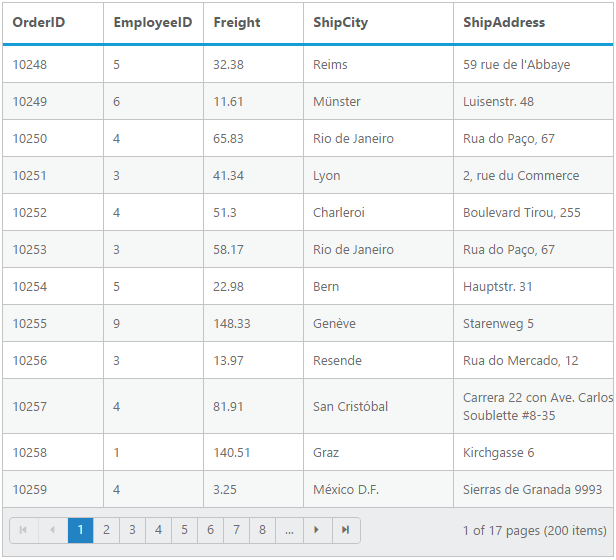
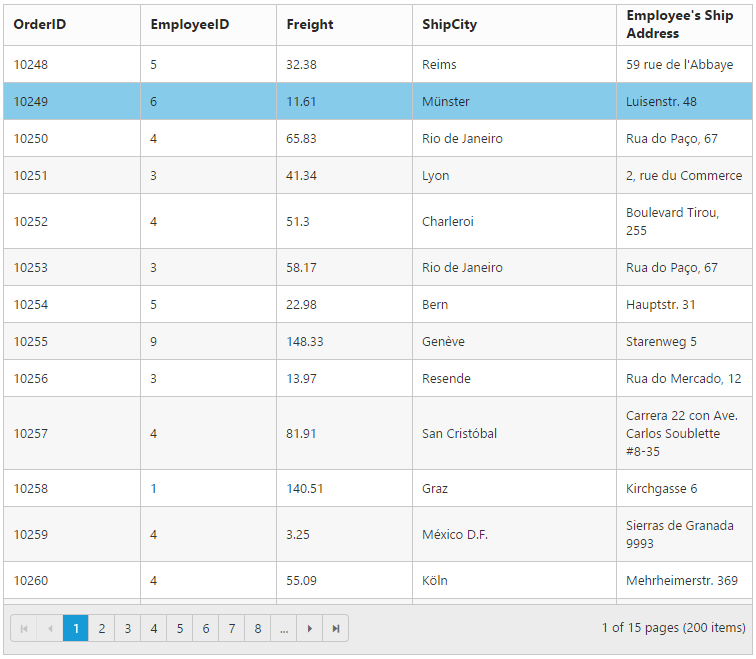
textWrapSettings api details has been committed.

diff --git a/js-toc.html b/js-toc.html
@@ -3841,6 +3841,14 @@
                                     </li>
                                 </ul>
                             </li>
+                            <li id="toc-members:textwrapsettings">
+                                <a href="/js/api/ejgrid#members:textwrapsettings">textWrapSettings</a>
+                            <ul>
+                                <li id="toc-members:textwrapsettings-wrapmode">
+                                <a href="/js/api/ejgrid#members:textwrapsettings-wrapmode">wrapMode</a>
+                                </li>
+                            </ul>
+                            </li>
                             <li id="toc-members:columnlayout">
                                 <a href="/js/api/ejgrid#members:columnlayout">columnLayout</a>
                             </li>

diff --git a/js/Grid/Cell.md b/js/Grid/Cell.md
@@ -8,9 +8,27 @@ documentation: ug
 --- 
 # Cell
 
-## Auto wrap column
+## Auto wrap 
 
-[`allowTextWrap`](http://help.syncfusion.com/js/api/ejgrid#members:allowtextwrap "allowTextWrap") property enables the Grid to wrap cell content to next line when the content exceeds the boundary of the cell width. 
+Auto wrap enables the Grid to wrap cell content or header content to next line when the content exceeds the boundary of the cell width. To enable auto wrap, set [`allowTextWrap`](http://help.syncfusion.com/js/api/ejgrid#members:allowtextwrap "allowTextWrap") property as `true`. 
+
+We can specify the mode of auto wrap using [`wrapMode`](http://help.syncfusion.com/js/api/ejgrid#members:textwrapsettings-wrapmode "wrapMode") property of the [`textWrapSettings`](http://help.syncfusion.com/js/api/ejgrid#members:textWrapSettings "textWrapSettings"). 
+
+Three types of wrapMode are available and they are,
+  
+ 1. Both
+ 2. Header
+ 3. Content 
+ 
+N> 1. By default the [`wrapMode`](http://help.syncfusion.com/js/api/ejgrid#members:textwrapsettings-wrapmode "wrapMode") will be set as `both`. 
+
+N> 2. While using [`textWrapSettings`](http://help.syncfusion.com/js/api/ejgrid#members:textWrapSettings "textWrapSettings") then it is must to set [`allowTextWrap`](http://help.syncfusion.com/js/api/ejgrid#members:allowtextwrap "allowTextWrap") as `true`.
+
+N> 3. For [`wrapMode`](http://help.syncfusion.com/js/api/ejgrid#members:textwrapsettings-wrapmode "wrapMode") property you can assign either `string` value (`both`) or `enum` value (`ej.Grid.WrapMode.Both`).
+ 
+## Both
+
+When [`wrapMode`](http://help.syncfusion.com/js/api/ejgrid#members:textwrapsettings-wrapmode "wrapMode") of [`textWrapSettings`](http://help.syncfusion.com/js/api/ejgrid#members:textWrapSettings "textWrapSettings") property set as `both` then the auto wrap will be enable for both grid content and header. 
 
 The following code example describes the above behavior.
 
@@ -19,27 +37,99 @@ The following code example describes the above behavior.
 {% endhighlight %}
 
 {% highlight js %}
-$(function () {
-	$("#Grid").ejGrid({
+
+    $(function () {
+		$("#Grid").ejGrid({
 		//The datasource "window.gridData" is referred from 'http://js.syncfusion.com/demos/web/scripts/jsondata.min.js'
 		dataSource : window.gridData,
 		allowPaging : true,
 		allowTextWrap : true,
+		textWrapSettings: {wrapMode: "both"},
 		columns : [
 			{ field: "OrderID", width: 100 },
 			{ field: "EmployeeID", width: 100 },
 			{ field: "Freight", width: 100 },
 			{ field: "ShipCity", width: 150 },
-			{ field: "ShipAddress", width: 200 }
+			{ field: "ShipAddress",headerText:"Ship Address", width: 200 }
 		]
 	});
-});
+	});
+
 {% endhighlight %}
 
 The following output is displayed as a result of the above code example.
 
 ![](Cell_images/cell_img1.png)
 
+## Header
+
+When [`wrapMode`](http://help.syncfusion.com/js/api/ejgrid#members:textwrapsettings-wrapmode "wrapMode") of [`textWrapSettings`](http://help.syncfusion.com/js/api/ejgrid#members:textWrapSettings "textWrapSettings") property set as `header` then the auto wrap will be enable only for grid header alone. 
+
+The following code example describes the above behavior.
+
+{% highlight html %}
+<div id="Grid"></div>
+{% endhighlight %}
+
+{% highlight js %}
+
+	$(function () {
+		$("#Grid").ejGrid({
+		//The datasource "window.gridData" is referred from 'http://js.syncfusion.com/demos/web/scripts/jsondata.min.js'
+		dataSource : window.gridData,
+		allowPaging : true,
+		allowTextWrap : true,
+		textWrapSettings: {wrapMode: "header"},
+		columns : [
+			{ field: "OrderID", width: 100 },
+			{ field: "EmployeeID", width: 100 },
+			{ field: "Freight", width: 100 },
+			{ field: "ShipCity", width: 150 },
+			{ field: "ShipAddress",headerText:"Ship Address", width: 200 }
+		]
+	});
+	});
+	
+{% endhighlight %}
+
+The following output is displayed as a result of the above code example.
+
+![](Cell_images/cell_img1_1.png)
+
+## Content
+
+When [`wrapMode`](http://help.syncfusion.com/js/api/ejgrid#members:textwrapsettings-wrapmode "wrapMode") of [`textWrapSettings`](http://help.syncfusion.com/js/api/ejgrid#members:textWrapSettings "textWrapSettings") property set as `content` then the auto wrap will be enable only for grid content alone. 
+
+The following code example describes the above behavior.
+
+{% highlight html %}
+<div id="Grid"></div>
+{% endhighlight %}
+
+{% highlight js %}
+
+	$(function () {
+		$("#Grid").ejGrid({
+		//The datasource "window.gridData" is referred from 'http://js.syncfusion.com/demos/web/scripts/jsondata.min.js'
+		dataSource : window.gridData,
+		allowPaging : true,
+		allowTextWrap : true,
+		textWrapSettings: {wrapMode: "content"},
+		columns : [
+			{ field: "OrderID", width: 100 },
+			{ field: "EmployeeID", width: 100 },
+			{ field: "Freight", width: 100 },
+			{ field: "ShipCity", width: 150 },
+			{ field: "ShipAddress",headerText:"Ship Address", width: 200 }
+		]
+	});
+	});
+	
+{% endhighlight %}
+
+The following output is displayed as a result of the above code example.
+
+![](Cell_images/cell_img1_2.png)
 
 ## Cell Merging
 

diff --git a/js/api/ejGrid.md b/js/api/ejGrid.md
@@ -2496,6 +2496,32 @@ $("#Grid").ejGrid({
 </script> 
 {% endhighlight %}
 
+### textWrapSettings `Object`
+{:#members:textwrapsettings}
+
+Gets or sets an object that indicates whether to auto wrap the grid header or content or both
+
+### textWrapSettings.wrapMode `enum`
+{:#members:textWrapSettings-wrapmode}
+
+This specifies the grid to apply the auto wrap for grid content or header or both.
+
+#### Default Value:
+{:.param}
+* ej.Grid.WrapMode.Both
+
+#### Example
+{% highlight html %}
+<div id="Grid"></div> 
+<script>
+$("#Grid").ejGrid({
+   dataSource:window.gridData,
+   allowTextWrap: true, 
+   textWrapSettings:{ wrapMode: ej.Grid.WrapMode.Both }                
+});
+</script>
+{% endhighlight %}
+
 ### isResponsive `Boolean`
 {:#members:isresponsive}
 
